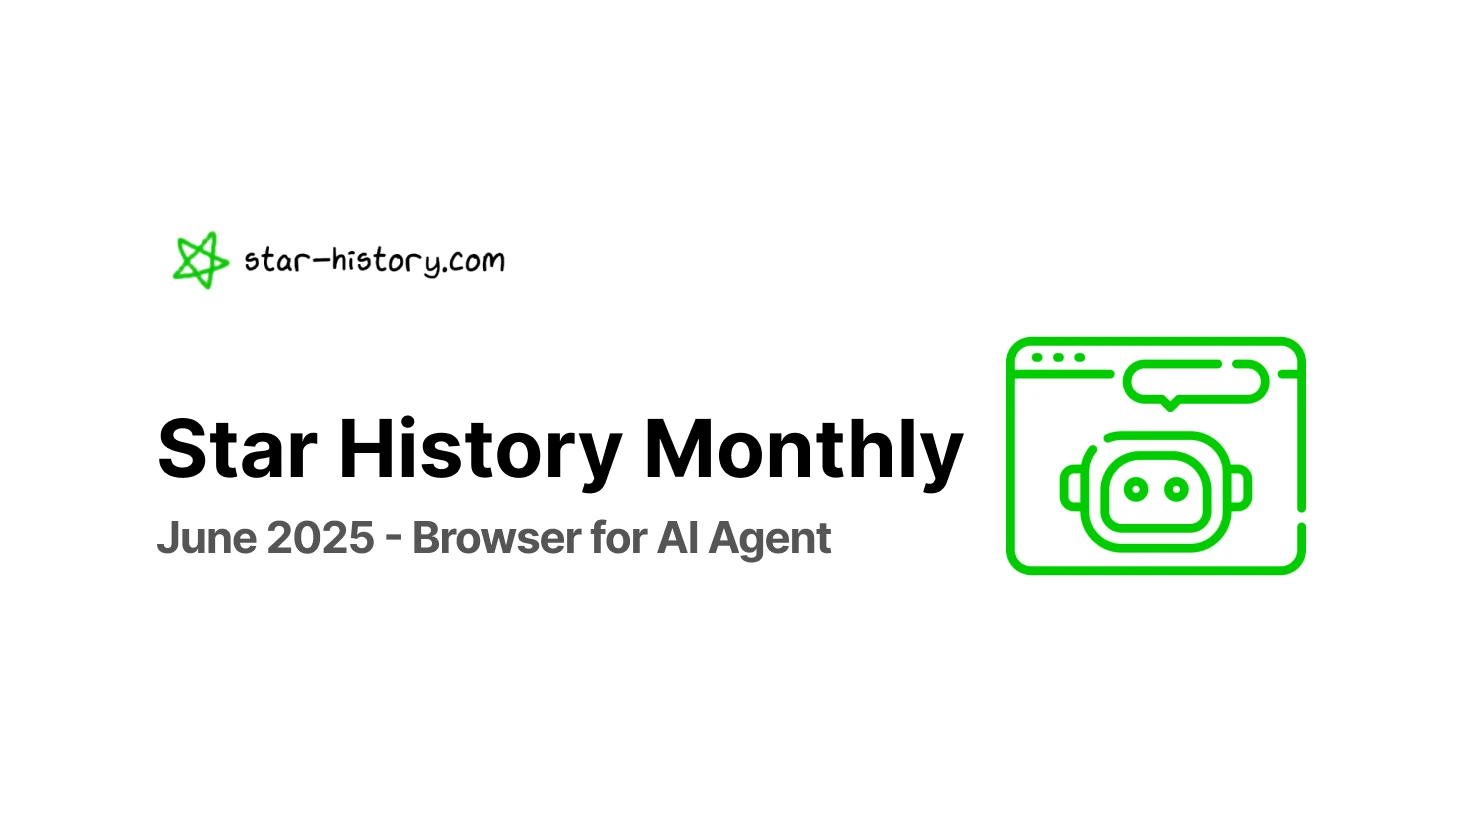
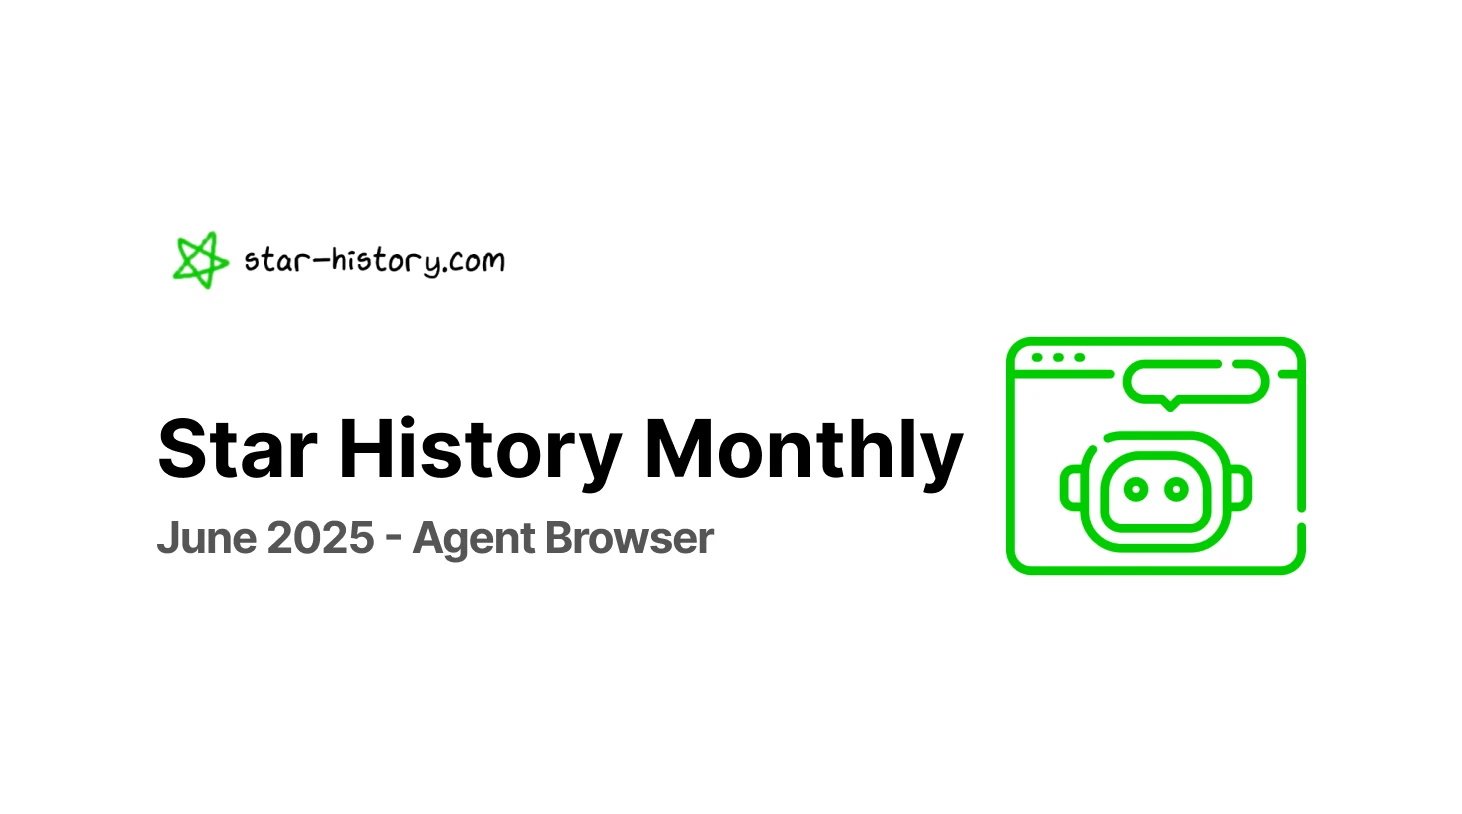
docs: add july monthly (#480)
* docs: add july minthly

* Apply suggestion from @Copilot

---------

Changed region(s): [[0.277, 0.645, 0.5848, 0.7064]]

diff --git a/star-history/frontend/components/HighlightBlogSection.tsx b/star-history/frontend/components/HighlightBlogSection.tsx
@@ -33,6 +33,10 @@ const blogSectionList: BlogSection[] = [
         title: "Monthly Pick",
         linkList: [
             {
+                title: "2025 July (IDE for Vibe Coding)",
+                path: "/blog/ide-vibe-coding",
+            },
+            {
                 title: "2025 June (Agent Browser)",
                 path: "/blog/browser-ai-agent",
             },

diff --git a/star-history/frontend/public/blog/ide-vibe-coding.md b/star-history/frontend/public/blog/ide-vibe-coding.md
@@ -1,0 +1,63 @@
+As AI transforms software development, the traditional IDE is evolving into something far more powerful. Vibe Coding represents a paradigm shift where development environments become intelligent partners, enabling real-time natural language-to-code generation and automated debugging through seamless AI integration.
+
+Today we'll explore four cutting-edge IDEs that are pioneering the Vibe Coding revolution:
+
+|  |  |
+| ------- | ----------- |
+| **Crystal** | Multi-Session Claude Code Manager |
+| **Void** | Open-Source Cursor Alternative |
+| **IntelliJ IDEA** | AI-Enhanced Enterprise Development |
+| **CodeSandbox** | Cloud-Native AI Coding Platform |
+|  |  |
+
+## Crystal
+
+![crystal-star](/assets/blog/ide-vibe-coding/crystal-star.webp)
+
+[Crystal](https://github.com/stravu/crystal) revolutionizes AI-assisted development by enabling parallel Claude Code sessions through git worktrees, allowing developers to experiment with multiple AI-generated solutions simultaneously while maintaining clean version control.
+
+![crystal](/assets/blog/ide-vibe-coding/crystal.webp)
+
+Crystal resumes AI conversations and maintains context across development sessions. With its built-in Diff Viewer, users can review and manually edit AI-generated changes before merging. It excels at exploratory development where you want AI to generate multiple solutions to the same problem, making it perfect for rapid prototyping and architectural experimentation.
+
+## Void
+
+![void-star](/assets/blog/ide-vibe-coding/void-star.webp)
+
+[Void](https://github.com/voideditor/void) delivers the power of Cursor as an open-source alternative, providing AI agents that can work directly on your codebase with checkpoint visualization and support for any AI model or local hosting.
+
+![void](/assets/blog/ide-vibe-coding/void.webp)
+
+Void's AI agents understand your entire codebase context and visualize checkpoints with all AI-generated modifications. Messages are sent directly to AI providers without data retention. Void democratizes AI-assisted coding by removing vendor lock-in while maintaining enterprise-grade capabilities for teams that prioritize control and transparency.
+
+## IntelliJ IDEA
+
+![intellij-star](/assets/blog/ide-vibe-coding/intellij-star.webp)
+
+[IntelliJ IDEA](https://github.com/JetBrains/intellij-community) has evolved beyond traditional IDE capabilities to become an AI-enhanced development powerhouse, integrating intelligent code completion, automated refactoring, and context-aware suggestions into its robust platform foundation.
+
+![intellij](/assets/blog/ide-vibe-coding/intellij.webp)
+
+IntelliJ IDEA's AI integration delivers intelligent code completion that understands project context and coding patterns, automated refactoring with smart code transformations and AI-assisted impact analysis, and context-aware debugging that helps identify bug patterns while suggesting targeted fixes. This comprehensive AI assistance spans Java, Kotlin, Python, and dozens of other programming languages.
+
+IntelliJ IDEA seamlessly bridges traditional enterprise development with cutting-edge AI capabilities, making it the ideal choice for teams transitioning to AI-assisted workflows while preserving their proven development practices and institutional knowledge.
+
+## CodeSandbox
+
+![codesandbox-star](/assets/blog/ide-vibe-coding/codesandbox-star.webp)
+
+[CodeSandbox](https://github.com/codesandbox/codesandbox-client) is an instantly ready, full-featured online IDE that eliminates the friction of local development setup. What sets CodeSandbox apart is its seamless real-time collaboration capabilities, allowing multiple developers to code together simultaneously, combined with an extensive template library that accelerates project initialization.
+
+![codesandbox](/assets/blog/ide-vibe-coding/codesandbox.webp)
+
+The platform supports popular frameworks including React, Angular, Vue, Preact, and Svelte, making it accessible for diverse web development projects. Built with a cloud-native architecture, it enables developers to create, experiment, and share web applications directly in the browser without any configuration overhead. The integrated deployment pipeline enables teams to iterate rapidly on ideas and ship web applications with minimal infrastructure complexity.
+
+## The Evolution of Development Environments
+
+These IDEs represent different philosophies in AI-assisted development, from Crystal's experimental multi-session approach to Void's open-source flexibility, IntelliJ's enterprise integration, and CodeSandbox's cloud-native collaboration.
+
+They collectively demonstrate how Vibe Coding is transforming software development by making AI assistance natural and integrated rather than an afterthought, enabling developers to think in terms of outcomes rather than implementation details.
+
+The future of development environments lies in this seamless integration of human creativity with AI capability, where the IDE becomes an intelligent collaborator that understands context, anticipates needs, and amplifies developer productivity through natural language interaction.
+
+📧 *Subscribe to our [weekly newsletter here](https://star-history.beehiiv.com/subscribe).*
